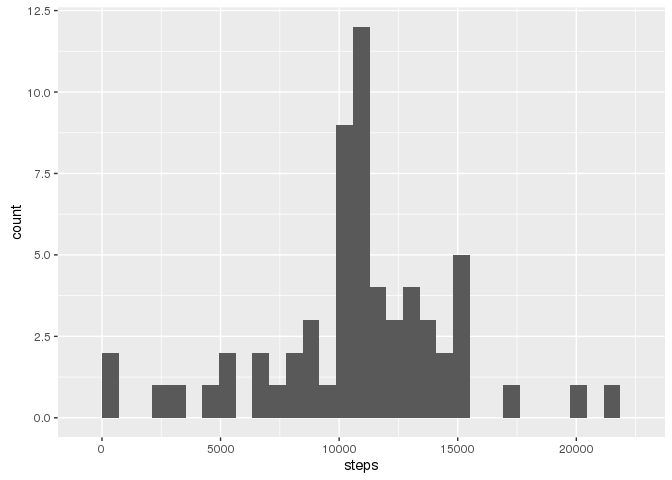
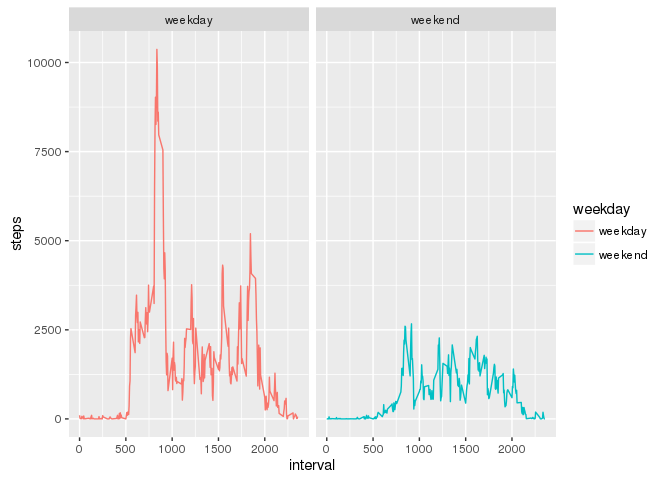
Minor fixes

diff --git a/PA1_template.html b/PA1_template.html
@@ -138,21 +138,11 @@ activity &lt;- read.csv('activity.csv')</code></pre>
 <h2>What is mean total number of steps taken per day?</h2>
 <p>Total number of steps taken per day:</p>
 <pre class="r"><code>aggregated_steps &lt;- aggregate(steps ~ date, activity, sum, rm.na = TRUE)</code></pre>
-<p>Head of aggregated steps:</p>
-<pre class="r"><code>head(aggregated_steps)</code></pre>
-<pre><code>##         date steps
-## 1 2012-10-02   127
-## 2 2012-10-03 11353
-## 3 2012-10-04 12117
-## 4 2012-10-05 13295
-## 5 2012-10-06 15421
-## 6 2012-10-07 11016</code></pre>
 <p>plot a histogram:</p>
 <pre class="r"><code>library(ggplot2)
-g &lt;- ggplot(aggregated_steps,aes(x=steps))+geom_histogram(stat=&quot;bin&quot;)
+g &lt;- ggplot(aggregated_steps,aes(x=steps))+geom_histogram(stat=&quot;bin&quot;,bins=20)
 print(g)</code></pre>
-<pre><code>## `stat_bin()` using `bins = 30`. Pick better value with `binwidth`.</code></pre>
[2 lines of base64/hex data omitted]
 <p>Mean and median of the number of steps:</p>
 <pre class="r"><code>mean(aggregated_steps$steps,na.rm=TRUE)</code></pre>
 <pre><code>## [1] 10767.19</code></pre>
@@ -167,19 +157,16 @@ g &lt;- ggplot(average_steps, aes(x=interval,y=steps))+geom_line()
 print(g)</code></pre>
[1 lines of base64/hex data omitted]
 <p>Maximum number of average steps:</p>
-<pre class="r"><code> head(average_steps[order(average_steps$steps,decreasing = TRUE),],1)</code></pre>
+<pre class="r"><code>average_steps[order(average_steps$steps,decreasing = TRUE),][1,]</code></pre>
 <pre><code>##     interval    steps
 ## 104      835 206.1698</code></pre>
-<pre class="r"><code> head(activity[order(activity$steps,decreasing = TRUE),],1)</code></pre>
-<pre><code>##       steps       date interval
-## 16492   806 2012-11-27      615</code></pre>
 </div>
 <div id="inputing-missing-values" class="section level2">
 <h2>Inputing missing values</h2>
 <p>Number of rows that contain NA:</p>
 <pre class="r"><code>nrow(activity[is.na(activity),])</code></pre>
 <pre><code>## [1] 2304</code></pre>
-<p>Compensate na values by the mean of that interval:</p>
+<p>Compensate NA values by the mean of that interval:</p>
 <pre class="r"><code>intervals &lt;-  unique(activity[,3])
 for (i in 1:length(intervals)){
    v &lt;- average_steps[average_steps$interval == intervals[i],]$steps
@@ -188,10 +175,9 @@ for (i in 1:length(intervals)){
 }</code></pre>
 <p>New histogram:</p>
 <pre class="r"><code>aggregated_steps &lt;- aggregate(steps ~ date, activity, sum, rm.na = TRUE)
-g &lt;- ggplot(aggregated_steps,aes(x=steps))+geom_histogram(stat=&quot;bin&quot;)
+g &lt;- ggplot(aggregated_steps,aes(x=steps))+geom_histogram(stat=&quot;bin&quot;,bins=20)
 print(g) </code></pre>
-<pre><code>## `stat_bin()` using `bins = 30`. Pick better value with `binwidth`.</code></pre>
[2 lines of base64/hex data omitted]
 <pre class="r"><code>mean(aggregated_steps$steps,na.rm=TRUE)</code></pre>
 <pre><code>## [1] 10767.19</code></pre>
 <pre class="r"><code>median(aggregated_steps$steps,na.rm=TRUE)</code></pre>

diff --git a/PA1_template.md b/PA1_template.md
@@ -35,35 +35,15 @@ Total number of steps taken per day:
 aggregated_steps <- aggregate(steps ~ date, activity, sum, rm.na = TRUE)
 ```
 
-Head of aggregated steps:
-
-```r
-head(aggregated_steps)
-```
-
-```
-##         date steps
-## 1 2012-10-02   127
-## 2 2012-10-03 11353
-## 3 2012-10-04 12117
-## 4 2012-10-05 13295
-## 5 2012-10-06 15421
-## 6 2012-10-07 11016
-```
-
 plot a histogram:
 
 ```r
 library(ggplot2)
-g <- ggplot(aggregated_steps,aes(x=steps))+geom_histogram(stat="bin")
+g <- ggplot(aggregated_steps,aes(x=steps))+geom_histogram(stat="bin",bins=20)
 print(g)
 ```
 
-```
-## `stat_bin()` using `bins = 30`. Pick better value with `binwidth`.
-```
-
-![](PA1_template_files/figure-html/unnamed-chunk-5-1.png)<!-- -->
+![](PA1_template_files/figure-html/unnamed-chunk-4-1.png)<!-- -->
 
 Mean and median of the number of steps:
 
@@ -94,26 +74,17 @@ g <- ggplot(average_steps, aes(x=interval,y=steps))+geom_line()
 print(g)
 ```
 
-![](PA1_template_files/figure-html/unnamed-chunk-7-1.png)<!-- -->
+![](PA1_template_files/figure-html/unnamed-chunk-6-1.png)<!-- -->
 
 Maximum number of average steps:
 
 ```r
- head(average_steps[order(average_steps$steps,decreasing = TRUE),],1)
+average_steps[order(average_steps$steps,decreasing = TRUE),][1,]
 ```
 
 ```
 ##     interval    steps
 ## 104      835 206.1698
-```
-
-```r
- head(activity[order(activity$steps,decreasing = TRUE),],1)
-```
-
-```
-##       steps       date interval
-## 16492   806 2012-11-27      615
 ```
 
 
@@ -129,7 +100,7 @@ nrow(activity[is.na(activity),])
 ## [1] 2304
 ```
  
-Compensate na values by the mean of that interval:
+Compensate NA values by the mean of that interval:
 
 ```r
 intervals <-  unique(activity[,3])
@@ -144,15 +115,11 @@ New histogram:
 
 ```r
 aggregated_steps <- aggregate(steps ~ date, activity, sum, rm.na = TRUE)
-g <- ggplot(aggregated_steps,aes(x=steps))+geom_histogram(stat="bin")
+g <- ggplot(aggregated_steps,aes(x=steps))+geom_histogram(stat="bin",bins=20)
 print(g) 
 ```
 
-```
-## `stat_bin()` using `bins = 30`. Pick better value with `binwidth`.
-```
-
-![](PA1_template_files/figure-html/unnamed-chunk-11-1.png)<!-- -->
+![](PA1_template_files/figure-html/unnamed-chunk-10-1.png)<!-- -->
 
 ```r
 mean(aggregated_steps$steps,na.rm=TRUE)
@@ -187,4 +154,4 @@ g <- ggplot(sum_steps_weekdays, aes(x=interval,y=steps,color=weekday))+geom_line
 print(g)
 ```
 
-![](PA1_template_files/figure-html/unnamed-chunk-12-1.png)<!-- -->
+![](PA1_template_files/figure-html/unnamed-chunk-11-1.png)<!-- -->
